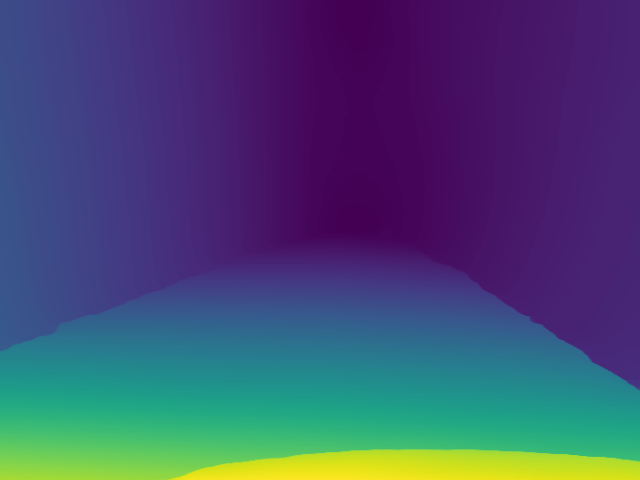
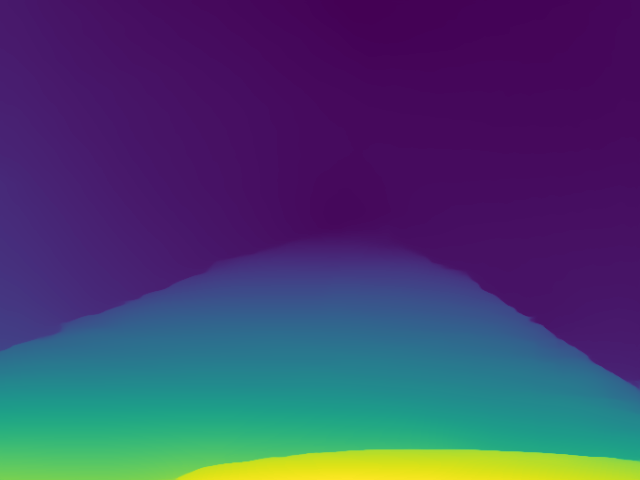
change dav2 to vits

diff --git a/code/align_rgb_to_event.py b/code/align_rgb_to_event.py
@@ -1,0 +1,58 @@
+import numpy as np
+import cv2
+import yaml
+import os
+
+def load_calibration(calib_path):
+    with open(calib_path, 'r') as f:
+        calib = yaml.safe_load(f)
+    # cam0: event left, cam1: frame left
+    K_event = np.array(calib['intrinsics']['cam0']['camera_matrix']).reshape(3, 3)
+    K_rgb = np.array(calib['intrinsics']['cam1']['camera_matrix']).reshape(3, 3)
+    D_rgb = np.array(calib['intrinsics']['cam1']['distortion_coeffs'])
+    # Extrinsics: T_10 (cam0 <- cam1)
+    T_10 = np.array(calib['extrinsics']['T_10'])
+    return K_event, K_rgb, D_rgb, T_10
+
+
+def warp_rgb_to_event(rgb_img, K_event, K_rgb, D_rgb, T_10, event_shape):
+    h_e, w_e = event_shape
+    # Generate event pixel grid
+    y_e, x_e = np.indices((h_e, w_e))
+    pts_event = np.stack([x_e.ravel(), y_e.ravel(), np.ones_like(x_e).ravel()])
+    # Project to cam0 (event) normalized
+    pts_event_norm = np.linalg.inv(K_event) @ pts_event
+    # Transform to cam1 (rgb) frame
+    pts_rgb = T_10[:3, :3] @ pts_event_norm + T_10[:3, 3:4]
+    pts_rgb = pts_rgb / pts_rgb[2:3]
+    # Project to rgb pixel
+    pts_rgb_pix = K_rgb @ pts_rgb
+    x_rgb = pts_rgb_pix[0].reshape(h_e, w_e)
+    y_rgb = pts_rgb_pix[1].reshape(h_e, w_e)
+    # Remap
+    map_x = x_rgb.astype(np.float32)
+    map_y = y_rgb.astype(np.float32)
+    warped = cv2.remap(rgb_img, map_x, map_y, interpolation=cv2.INTER_LINEAR, borderMode=cv2.BORDER_CONSTANT)
+    return warped
+
+
+def main():
+    import argparse
+    parser = argparse.ArgumentParser(description="Warp RGB to event camera using calibration.")
+    parser.add_argument('--rgb', required=True, help='Path to RGB image')
+    parser.add_argument('--calib', required=True, help='Path to cam_to_cam.yaml')
+    parser.add_argument('--event-shape', type=int, nargs=2, required=True, help='Event image shape (H W)')
+    parser.add_argument('--out', required=True, help='Output path for warped RGB')
+    args = parser.parse_args()
+
+    rgb = cv2.imread(args.rgb)
+    if rgb is None:
+        raise FileNotFoundError(f"Could not read {args.rgb}")
+    rgb = cv2.cvtColor(rgb, cv2.COLOR_BGR2RGB)
+    K_event, K_rgb, D_rgb, T_10 = load_calibration(args.calib)
+    warped = warp_rgb_to_event(rgb, K_event, K_rgb, D_rgb, T_10, tuple(args.event_shape))
+    cv2.imwrite(args.out, cv2.cvtColor(warped, cv2.COLOR_RGB2BGR))
+    print(f"Saved warped RGB to {args.out}")
+
+if __name__ == '__main__':
+    main()

diff --git a/code/evaluate.py b/code/evaluate.py
@@ -342,30 +342,30 @@ def main() -> None:
 
     if args.model == "dav2":
         model = Dav2Wrapper(
-            encoder="vitb",
-            checkpoint=os.path.join("models", "dav2", "checkpoints", "depth_anything_v2_vitb.pth"),
+            encoder="vits",
+            checkpoint=os.path.join("models", "dav2", "checkpoints", "depth_anything_v2_vits.pth"),
             device=device,
             input_size=518,
         )
     elif args.model == "dav2_infer":
         model = Dav2InferWrapper(
-            encoder="vitb",
-            checkpoint=os.path.join("models", "dav2", "checkpoints", "depth_anything_v2_vitb.pth"),
+            encoder="vits",
+            checkpoint=os.path.join("models", "dav2", "checkpoints", "depth_anything_v2_vits.pth"),
             device=device,
             input_size=518,
         )
     elif args.model == "e2vid_dav2":
         model = E2VIDDav2(
             e2vid_weights=None,
-            dav2_encoder="vitb",
-            dav2_checkpoint=os.path.join("models", "dav2", "checkpoints", "depth_anything_v2_vitb.pth"),
+            dav2_encoder="vits",
+            dav2_checkpoint=os.path.join("models", "dav2", "checkpoints", "depth_anything_v2_vits.pth"),
             device=device,
         )
     elif args.model == "e2vid_dav2_composite":
         model = E2VIDDav2Composite(
             e2vid_weights=None,
-            dav2_encoder="vitb",
-            dav2_checkpoint=os.path.join("models", "dav2", "checkpoints", "depth_anything_v2_vitb.pth"),
+            dav2_encoder="vits",
+            dav2_checkpoint=os.path.join("models", "dav2", "checkpoints", "depth_anything_v2_vits.pth"),
             device=device,
         )
     else:

diff --git a/code/test_dsec_sequence.py b/code/test_dsec_sequence.py
@@ -187,8 +187,27 @@ def main():
     events_path = os.path.join(out_dir, f"events_{args.index:05d}.png")
     depth_path = os.path.join(out_dir, f"depth_{args.index:05d}.png")
 
+    # Overlay events on depth visualization
+    if depth_vis.shape[:2] != events_rgb.shape[:2]:
+        events_for_overlay = cv2.resize(events_rgb, (depth_vis.shape[1], depth_vis.shape[0]), interpolation=cv2.INTER_NEAREST)
+    else:
+        events_for_overlay = events_rgb
+
+    if depth_vis.ndim == 2:
+        depth_for_overlay = np.repeat(depth_vis[..., None], 3, axis=2)
+    elif depth_vis.ndim == 3 and depth_vis.shape[2] == 1:
+        depth_for_overlay = np.repeat(depth_vis, 3, axis=2)
+    else:
+        depth_for_overlay = depth_vis
+
+    depth_overlay = 0.2 * events_for_overlay.astype(np.float32) + 0.8 * depth_for_overlay.astype(np.float32)
+    depth_overlay = np.clip(depth_overlay / 255.0, 0.0, 1.0)
+    depth_overlay_path = os.path.join(out_dir, f"overlay_events_depth_{args.index:05d}.png")
+    save_image(depth_overlay_path, depth_overlay)
+
     save_image(events_path, events_rgb)
     save_image(depth_path, depth_vis)
+    print(f"Saved overlay (events on depth) to {depth_overlay_path}")
 
     if args.load_images == "yes" and "rgb" in sample:
         rgb = sample["rgb"][0].cpu().numpy()

diff --git a/code/networks/dav2_wrapper.py b/code/networks/dav2_wrapper.py
@@ -51,7 +51,7 @@ class Dav2Wrapper(torch.nn.Module):
         )
         if not os.path.isfile(ckpt):
             raise FileNotFoundError(f"Checkpoint not found: {ckpt}")
-
+        print("Loading DAV2 checkpoint from:", ckpt)
         cfg = MODEL_CONFIGS[encoder]
         self.model = DepthAnythingV2(encoder=encoder, **cfg)
         self.model.load_state_dict(torch.load(ckpt, map_location="cpu"))

diff --git a/notes/meeting_notes/2026-01-15.md b/notes/meeting_notes/2026-01-15.md
@@ -6,5 +6,6 @@
 
 ## Remarks
 - rgb not aligned with events
+- ET-net https://github.com/WarranWeng/ET-Net
 
 ## Next steps: training networks
